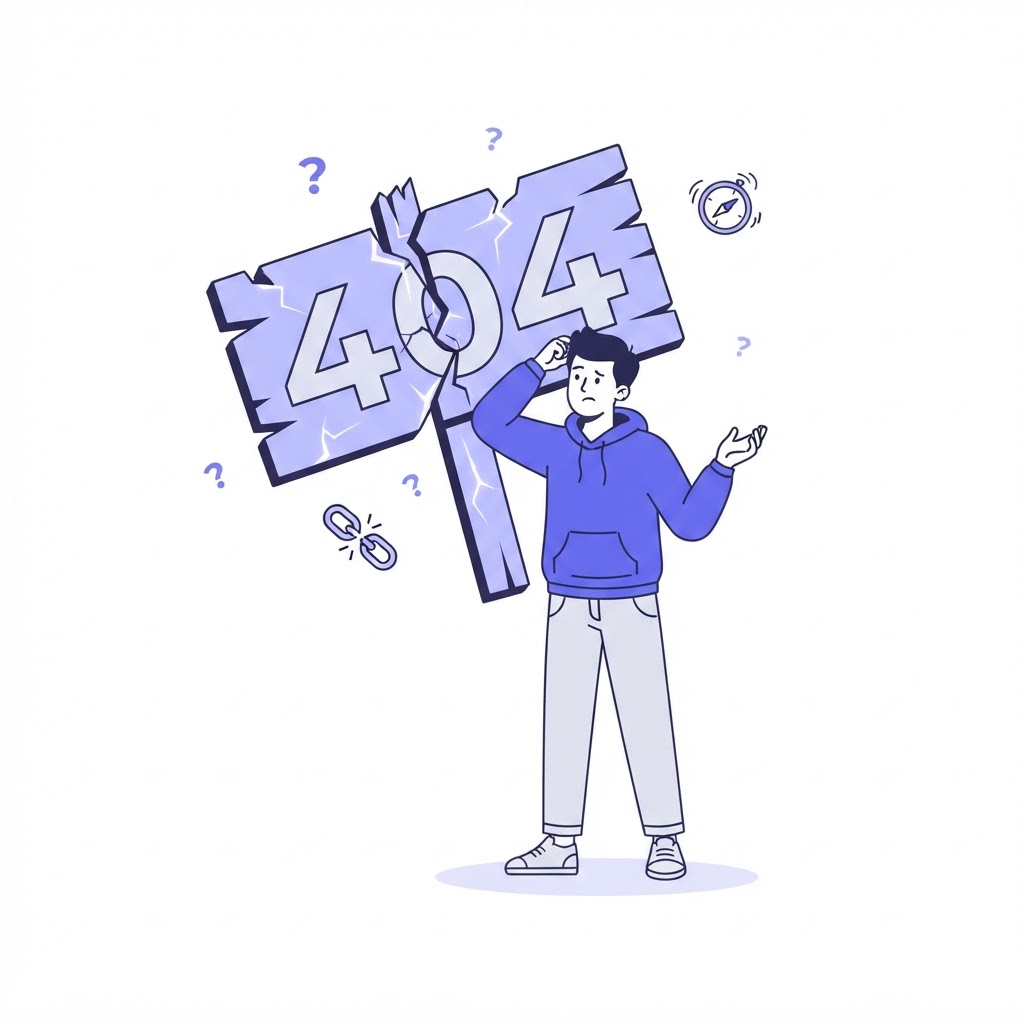
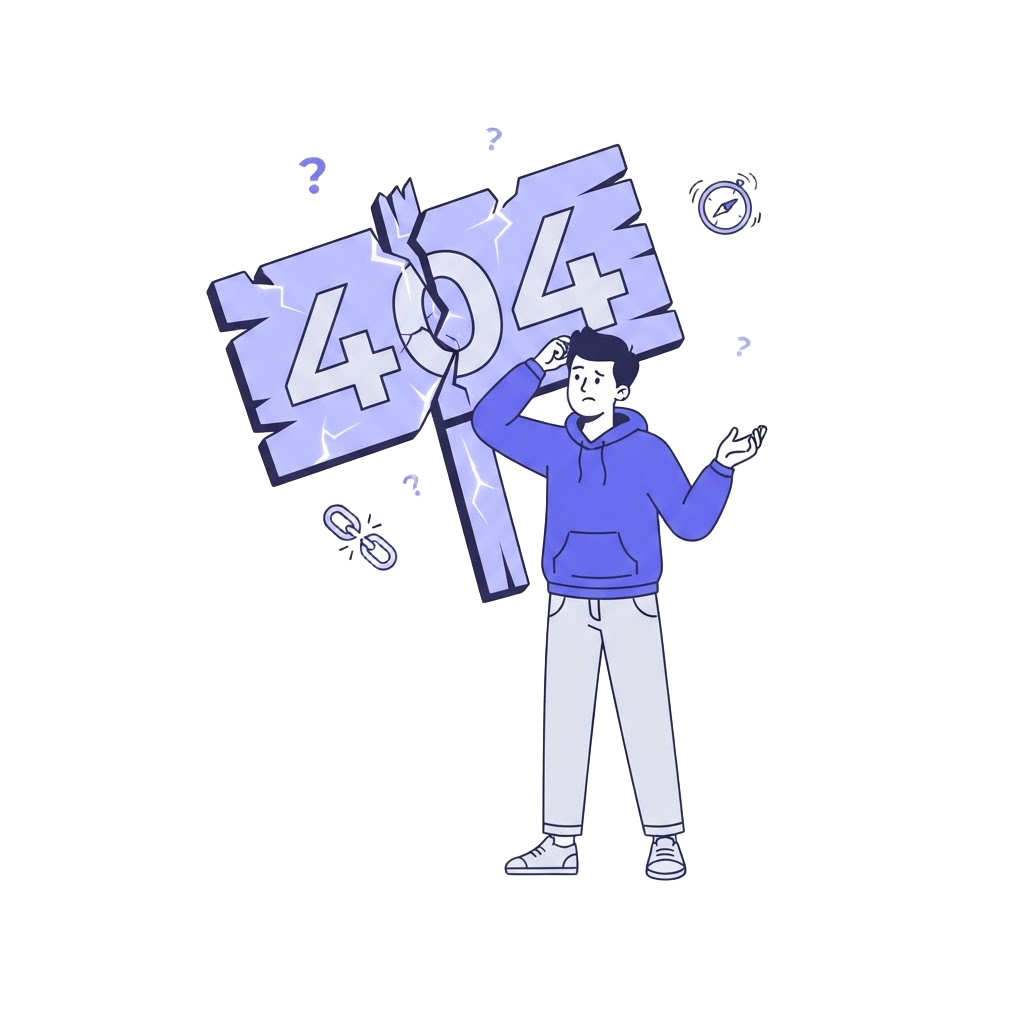
🎨 ui: Make the whole linknest web app responsive

Changed region(s): [[0.4062, 0.8125, 0.75, 0.875], [0.3125, 0.5, 0.4062, 0.5625], [0.1875, 0.4375, 0.2188, 0.4688]]

diff --git a/src/shared/components/landing/Hero.tsx b/src/shared/components/landing/Hero.tsx
@@ -21,7 +21,7 @@ export default function Hero() {
         aria-hidden="true"
       />
 
-      <div className="relative max-w-6xl mx-auto px-6 py-20 grid md:grid-cols-2 gap-16 items-center w-full">
+      <div className="relative max-w-6xl mx-auto px-6 py-20 grid md:grid-cols-2 gap-12 md:gap-16 items-center w-full">
         {/* Left: Copy */}
         <div className="flex flex-col gap-6">
           {/* Badge */}
@@ -30,31 +30,31 @@ export default function Hero() {
             Built for developers
           </Badge>
 
-          <h1 className="font-heading text-5xl md:text-6xl font-bold leading-[1.1] text-foreground text-balance">
+          <h1 className="font-heading text-4xl sm:text-5xl md:text-6xl font-bold leading-[1.1] text-foreground text-balance">
             Your dev profile. <span className="text-primary">One page.</span>
             <br />
             Real analytics.
           </h1>
 
-          <p className="text-lg text-muted-foreground leading-relaxed max-w-md">
+          <p className="text-base sm:text-lg text-muted-foreground leading-relaxed max-w-md">
             Centralize your professional presence in one place. Share your developer profile, coding
             platforms, social links, and contact channels with a single link.
           </p>
 
           {/* URL preview input */}
-          <div className="flex items-center bg-muted rounded-xl border border-border px-4 py-3 max-w-sm">
-            <span className="text-sm text-muted-foreground font-mono whitespace-nowrap select-none">
+          <div className="flex items-center bg-muted rounded-xl border border-border px-4 py-3 max-w-sm w-full">
+            <span className="text-sm text-muted-foreground font-mono whitespace-nowrap select-none shrink-0">
               getlinknest.vercel.app/u/
             </span>
             <Input
               type="text"
               defaultValue="yourname"
               aria-label="Choose your username"
-              className="p-0 h-fit border-none font-mono font-semibold text-sm text-primary shadow-none"
+              className="p-0 h-fit border-none font-mono font-semibold text-sm text-primary shadow-none flex-1 min-w-0"
             />
             <a
               href="/signup"
-              className="text-xs font-semibold text-primary-foreground bg-primary px-3 py-1.5 rounded-lg hover:bg-primary/90 transition-colors whitespace-nowrap"
+              className="text-xs font-semibold text-primary-foreground bg-primary px-3 py-1.5 rounded-lg hover:bg-primary/90 transition-colors whitespace-nowrap shrink-0"
             >
               Claim it
             </a>
@@ -133,7 +133,7 @@ export default function Hero() {
 
           {/* Floating analytics card */}
           <div
-            className="absolute -right-4 top-1/3 w-36 bg-background rounded-2xl shadow-xl border border-border p-3 flex flex-col gap-2"
+            className="absolute -right-3 sm:-right-4 top-1/3 w-36 bg-background rounded-2xl shadow-xl border border-border p-3 flex flex-col gap-2"
             style={{ boxShadow: "0 8px 32px -4px oklch(0 0 0 / 0.1)" }}
             aria-hidden="true"
           >
@@ -155,7 +155,7 @@ export default function Hero() {
           </div>
 
           {/* Floating badge */}
-          <Badge className="absolute -left-4 bottom-1/4 bg-background rounded-xl shadow-lg border border-border p-3 flex items-center gap-2">
+          <Badge className="absolute -left-3 sm:-left-4 bottom-1/4 bg-background rounded-xl shadow-lg border border-border p-3 flex items-center gap-2">
             <FaLink className="text-primary" />
             <span className="text-[10px] font-semibold text-foreground">
               getlinknest.vercel.app/u/alex
@@ -163,7 +163,7 @@ export default function Hero() {
           </Badge>
 
           {/* Floating customise badge */}
-          <Badge className="absolute -left-6 top-16 bg-primary text-primary-foreground rounded-xl shadow-lg p-3 flex items-center gap-2">
+          <Badge className="absolute -left-3 sm:-left-6 top-16 bg-primary text-primary-foreground rounded-xl shadow-lg p-3 flex items-center gap-2">
             <FaPalette />
             <span className="text-[10px] font-semibold">Fully customizable</span>
           </Badge>

diff --git a/src/shared/components/landing/CTA.tsx b/src/shared/components/landing/CTA.tsx
@@ -9,25 +9,25 @@ export default function CTA() {
           <span className="text-xs font-semibold uppercase tracking-widest text-primary">
             Create your profile
           </span>
-          <h2 className="font-heading text-4xl md:text-6xl font-bold text-foreground text-balance max-w-3xl">
+          <h2 className="font-heading text-3xl sm:text-4xl md:text-6xl font-bold text-foreground text-balance max-w-3xl">
             Your developer profile deserves its <span className="text-primary">own place</span>
           </h2>
-          <p className="text-muted-foreground text-lg max-w-md leading-relaxed text-balance">
+          <p className="text-muted-foreground text-base sm:text-lg max-w-md leading-relaxed text-balance">
             Create your free developer profile, connect your platforms, and share everything from a
             single link.
           </p>
         </div>
 
         {/* URL claim */}
-        <div className="flex items-center bg-background rounded-2xl border border-border px-5 py-3.5 shadow-sm max-w-sm w-full">
-          <span className="text-sm text-muted-foreground font-mono whitespace-nowrap select-none">
+        <div className="flex items-center bg-background rounded-2xl border border-border px-4 sm:px-5 py-3.5 shadow-sm max-w-sm w-full">
+          <span className="text-sm text-muted-foreground font-mono whitespace-nowrap select-none shrink-0">
             getlinknest.vercel.app/u/
           </span>
           <Input
             type="text"
             defaultValue="yourname"
             aria-label="Choose your username"
-            className="p-0 h-fit bg-transparent dark:bg-transparent border-none font-mono font-semibold text-sm text-primary shadow-none"
+            className="p-0 h-fit bg-transparent dark:bg-transparent border-none font-mono font-semibold text-sm text-primary shadow-none flex-1 min-w-0"
           />
         </div>
 

diff --git a/src/features/profile/components/dialogs/avatar/AvatarForm.tsx b/src/features/profile/components/dialogs/avatar/AvatarForm.tsx
@@ -56,7 +56,7 @@ export const AvatarForm = ({ onSuccess }: Props) => {
         </p>
       )}
 
-      <form className="flex" onSubmit={(e) => handleAvatarSubmit(e, onSuccess)}>
+      <form className="flex flex-col sm:flex-row gap-2 sm:gap-3" onSubmit={(e) => handleAvatarSubmit(e, onSuccess)}>
         <input
           ref={fileInputRef}
           onChange={handleFileChange}
@@ -72,7 +72,7 @@ export const AvatarForm = ({ onSuccess }: Props) => {
               disabled={isDeleting}
               type="button"
               variant="destructive"
-              className="flex-1 mr-2"
+              className="w-full sm:w-auto sm:flex-1"
             >
               <FaTrash /> Remove your photo
             </Button>
@@ -86,7 +86,7 @@ export const AvatarForm = ({ onSuccess }: Props) => {
             />
           </>
         )}
-        <Button type="submit" disabled={isUploading} className="flex-1">
+        <Button type="submit" disabled={isUploading} className="w-full sm:w-auto sm:flex-1">
           {isUploading ? <Loader size="sm" /> : "Save"}
         </Button>
       </form>

diff --git a/src/features/links/components/LinkSortableItem.tsx b/src/features/links/components/LinkSortableItem.tsx
@@ -61,7 +61,7 @@ export const LinkSortableItem = ({ link }: Props) => {
           </div>
 
           {/* Actions */}
-          <div className="flex items-center gap-1 shrink-0 opacity-0 group-hover:opacity-100 transition-opacity *:bg-transparent *:size-8 *:rounded-lg *:flex *:items-center *:justify-center *:text-muted-foreground *:transition-colors">
+          <div className="flex items-center gap-1 shrink-0 sm:opacity-0 sm:group-hover:opacity-100 transition-opacity *:bg-transparent *:size-8 *:rounded-lg *:flex *:items-center *:justify-center *:text-muted-foreground *:transition-colors">
             {/* Edit */}
             <Button
               onClick={() => handleSetLinkToEdit(link)}

diff --git a/src/pages/AuthPage.tsx b/src/pages/AuthPage.tsx
@@ -25,7 +25,7 @@ export const AuthPage = ({ isSignup = false }: Props) => {
   return (
     <main className="min-h-screen bg-background flex" aria-label="Create your account">
       {/* ── Left panel: form ── */}
-      <div className="flex-1 flex flex-col px-8 py-10 md:px-16 lg:px-20 max-w-xl">
+      <div className="flex-1 flex flex-col px-6 py-10 sm:px-8 md:px-16 lg:px-20 max-w-xl">
         <a href="/" className="flex items-center gap-2 group" aria-label="Linknest Home">
           <img src={Logo} alt="Linknest Logo" className="size-8" />
           <span className="font-heading font-bold text-xl text-foreground tracking-tight">

diff --git a/src/shared/components/landing/HowItWorks.tsx b/src/shared/components/landing/HowItWorks.tsx
@@ -18,10 +18,10 @@ export default function HowItWorks() {
         </div>
 
         {/* Steps */}
-        <div className="relative grid md:grid-cols-4 gap-8">
+        <div className="relative grid sm:grid-cols-2 lg:grid-cols-4 gap-8 sm:gap-x-6 lg:gap-x-8">
           {/* Connector line (desktop) */}
           <div
-            className="hidden md:block absolute top-7 left-[calc(12.5%)] right-[calc(12.5%)] h-px bg-border z-0"
+            className="hidden lg:block absolute top-7 left-[calc(12.5%)] right-[calc(12.5%)] h-px bg-border z-0"
             aria-hidden="true"
           />
 

diff --git a/src/shared/components/app/PageLayout.tsx b/src/shared/components/app/PageLayout.tsx
@@ -7,7 +7,7 @@ import { useAuth } from "@/features/auth/hooks/useAuth";
 export const PageLayout = () => {
   const { user } = useAuth();
   const publicURL = getPublicURL(user?.username);
-  const isPublicProfile = useMatch("/u/:username"); // Don't show the share button if is an user profile page.
+  const isPublicProfile = useMatch("/u/:username") || useMatch("/404"); // Don't show the share button if is an user profile or error page.
 
   return (
     <div className="min-h-screen bg-muted/40 flex flex-col">

diff --git a/src/shared/components/landing/Features.tsx b/src/shared/components/landing/Features.tsx
@@ -20,7 +20,7 @@ export default function Features() {
         </div>
 
         {/* Feature grid */}
-        <div className="grid sm:grid-cols-2 lg:grid-cols-3 gap-6">
+        <div className="grid sm:grid-cols-2 lg:grid-cols-3 gap-4 sm:gap-6">
           {features.map((feat) => (
             <FeatureCard feature={feat} key={feat.id} />
           ))}

diff --git a/src/features/profile/components/dialogs/banner/BannerPresets.tsx b/src/features/profile/components/dialogs/banner/BannerPresets.tsx
@@ -21,7 +21,7 @@ export const BannerPresets = ({ onSuccess }: Props) => {
 
   return (
     <>
-      <div className="grid grid-cols-6 gap-4 justify-items-center">
+      <div className="grid grid-cols-5 sm:grid-cols-6 gap-3 sm:gap-4 justify-items-center">
         {BANNER_PRESETS.map((preset) => (
           <Button
             key={preset}

diff --git a/src/features/profile/components/ProfileForm.tsx b/src/features/profile/components/ProfileForm.tsx
@@ -187,7 +187,7 @@ export const ProfileForm = () => {
         <Button
           type="submit"
           size="lg"
-          className="h-11 px-8 rounded-xl font-semibold text-sm gap-2"
+          className="w-full sm:w-auto h-11 px-8 rounded-xl font-semibold text-sm gap-2"
         >
           Save Changes
         </Button>

diff --git a/src/shared/components/shadcn/chart.tsx b/src/shared/components/shadcn/chart.tsx
@@ -266,7 +266,7 @@ function ChartLegendContent({
   return (
     <div
       className={cn(
-        "flex items-center justify-center gap-4",
+        "flex flex-wrap items-center justify-center gap-x-4 gap-y-1.5",
         verticalAlign === "top" ? "pb-3" : "pt-3",
         className,
       )}

diff --git a/src/shared/components/landing/Footer.tsx b/src/shared/components/landing/Footer.tsx
@@ -21,7 +21,7 @@ export default function Footer() {
             </p>
           </div>
 
-          <div className="flex gap-4">
+          <div className="flex flex-wrap justify-center gap-4">
             {navMenuItems.map((item) => (
               <a
                 key={item}
